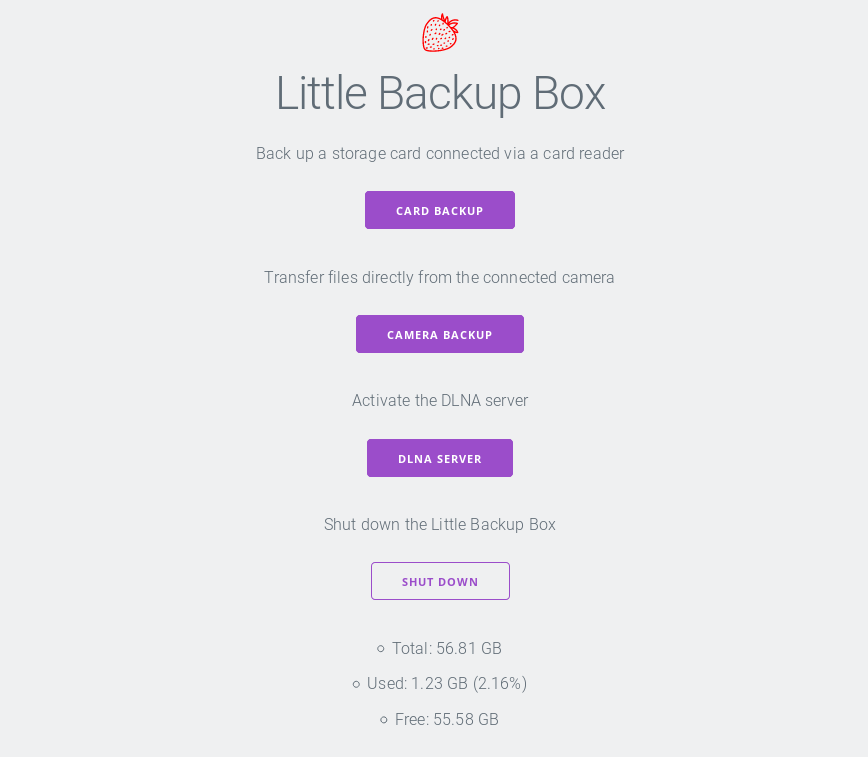
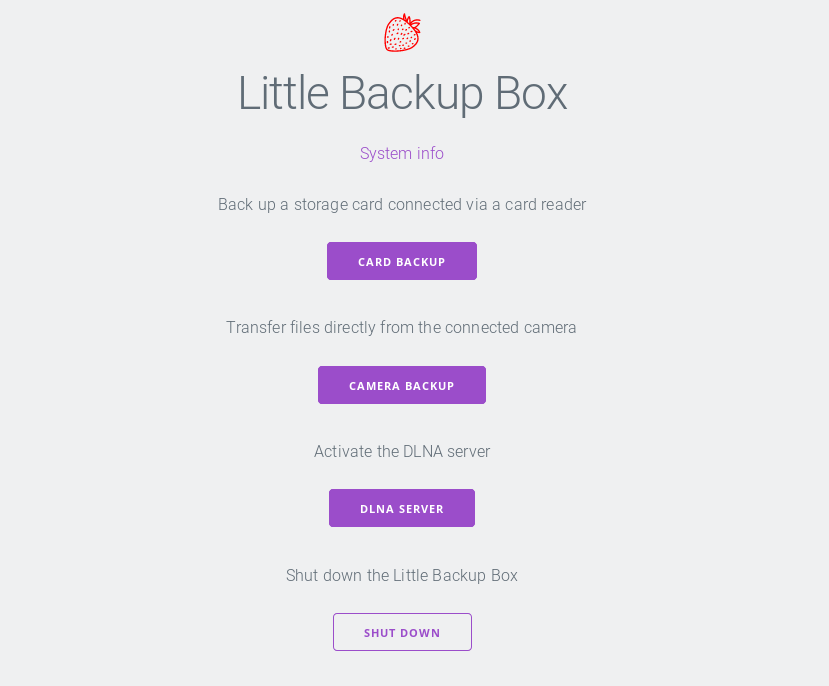
Add sysinfo.php

diff --git a/scripts/sysinfo.php b/scripts/sysinfo.php
@@ -1,0 +1,53 @@
+<html lang="en">
+    <!-- Author: Dmitri Popov, dmpop@linux.com
+         License: GPLv3 https://www.gnu.org/licenses/gpl-3.0.txt -->
+
+    <head>
+	<meta charset="utf-8">
+	<title>Little Backup Box</title>
+	<link rel="shortcut icon" href="ichigo.png" />
+	<link rel="stylesheet" href="milligram.min.css">
+	<link rel="stylesheet" href="//fonts.googleapis.com/css?family=Roboto:300,300italic,700,700italic">
+	<meta name="viewport" content="width=device-width, initial-scale=1">
+	<style>
+	 #content {
+	     margin: 0px auto;
+             text-align: center;
+	 }
+	 img {
+	     display: block;
+	     margin-left: auto;
+	     margin-right: auto;
+	     margin-top: 1%;
+	     margin-bottom: 1%;
+	 }
+	</style>
+    </head>
+
+    <body>
+	<div id="content">
+	    <img src="ichigo.svg" height="39px" alt="Ichigo">
+            <h1>Little Backup Box</h1>
+            <p>Basic system information</p>
+	    <h2>Devices</h2>
+	    <div style="display: inline-block; text-align: left;">
+		<?php
+		echo '<pre>';
+		passthru("lsblk");
+		echo '</pre>';
+		?>
+	    </div>
+	    <h2>Memory (in MB)</h2>
+	    <div style="display: inline-block; text-align: left;">
+		<?php
+		echo '<pre>';
+		passthru("free -m");
+		echo '</pre>';
+		?>
+	    </div>
+	    <form>
+		<input type="button" onClick="history.go(0)" value="Refresh">
+	    </form>
+	</div>
+    </body>
+</html>

diff --git a/scripts/index.php b/scripts/index.php
@@ -28,6 +28,7 @@
 	<div id="content">
 	    <img src="ichigo.svg" height="39px" alt="Ichigo">
             <h1>Little Backup Box</h1>
+	    <p><a href="sysinfo.php">System info</a></p>
             <p>Back up a storage card connected via a card reader</p>
             <p>
 		<form method="post">

diff --git a/README.md b/README.md
@@ -56,6 +56,8 @@ The access the contents of the storage device, plug it into the Raspberry Pi and
 
 Activating the DLNA server also returns the disk space usage information. You can use this information to monitor the remaining free space on the storage device.
 
+The **System info** link gives you access to basic system information, such as a list of storage devices and memory usage.
+
 ## Problems?
 
 Please report bugs and issues in the [Issues](https://github.com/dmpop/little-backup-box/issues) section.
